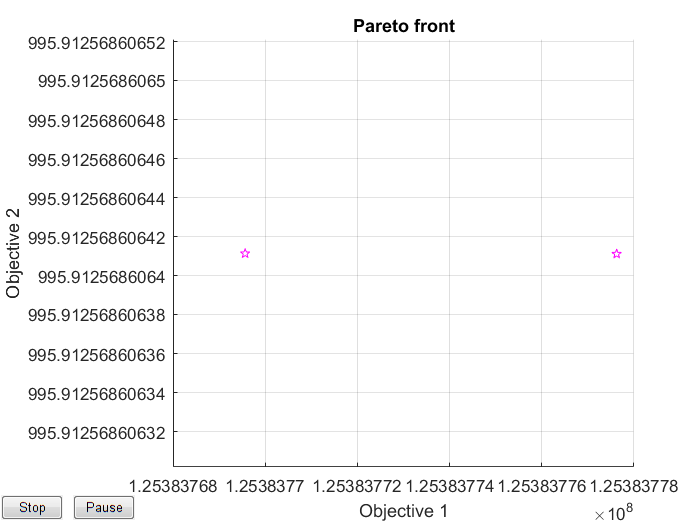
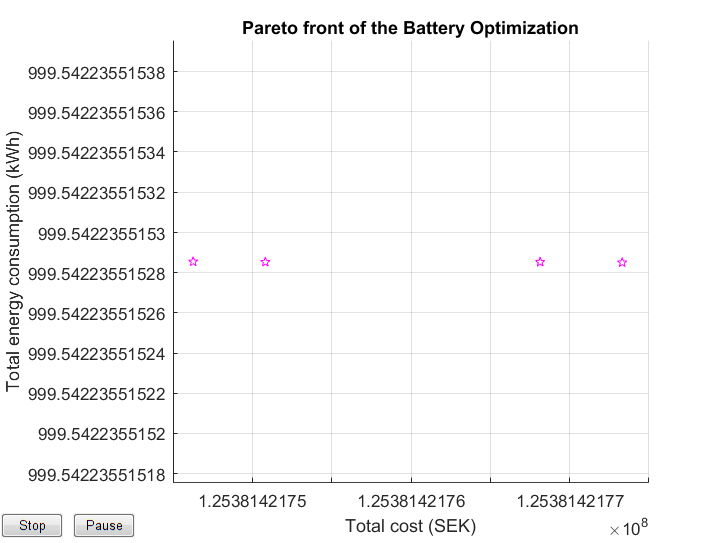
Final Optimizaton Data and modified cost function

diff --git a/Assignment Combined Project/assignment_cost_function.m b/Assignment Combined Project/assignment_cost_function.m
@@ -9,6 +9,7 @@ yr_idx = round(ROI_yr*365);
 
 A = sum(outputs.results.fleet.car_energy_charged_grid,2) +...
     sum(outputs.results.fleet.tram_energy_charged_grid,2);
-[opt.energConsum,opt.mixEnergConsum] = min(A);
+% [opt.energConsum,opt.mixEnergConsum] = min(A);
+opt.energConsum  = A(opt.mixCost);
 end
 
